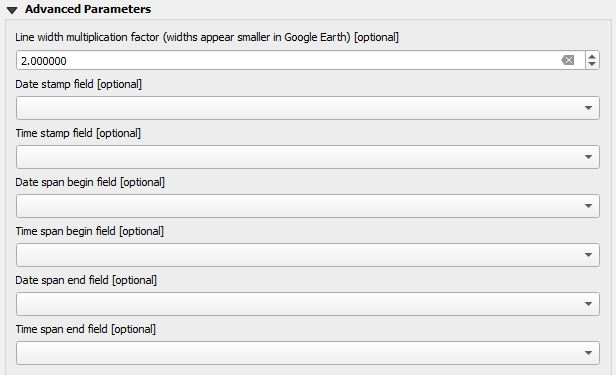
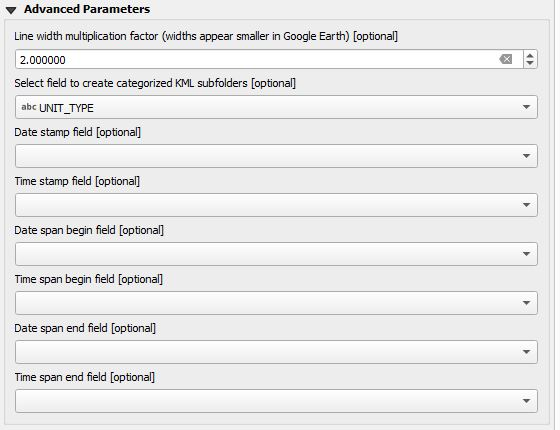
Attribute to KML subfolder creation

Changed region(s): [[0.0, 0.0, 1.0, 1.0], [0.0, 0.9093, 0.0304, 0.968], [0.0, 0.792, 0.0304, 0.8213]]

diff --git a/exportKmz.py b/exportKmz.py
@@ -5,7 +5,8 @@ from qgis.PyQt.QtGui import QIcon
 
 from qgis.core import (
     QgsCoordinateTransform, QgsCoordinateReferenceSystem, QgsCompoundCurve,
-    QgsProject, QgsRenderContext, QgsWkbTypes, Qgis, QgsExpression, QgsExpressionContext, QgsExpressionContextUtils)
+    QgsProject, QgsRenderContext, QgsWkbTypes, Qgis, QgsExpression, QgsFeatureRequest,
+    QgsExpressionContext, QgsExpressionContextUtils)
 
 from qgis.core import (
     QgsProcessing,
@@ -59,6 +60,7 @@ class ExportKmzAlgorithm(QgsProcessingAlgorithm):
     PrmExportStyle = 'ExportStyle'
     PrmUseGoogleIcon = 'UseGoogleIcon'
     PrmLineWidthFactor = 'LineWidthFactor'
+    PrmSubFolderField = 'SubFolderField'
     PrmAltitudeInterpretation = 'AltitudeInterpretation'
     PrmAltitudeMode = 'AltitudeMode'
     PrmAltitudeModeField = 'AltitudeModeField'
@@ -257,6 +259,15 @@ class ExportKmzAlgorithm(QgsProcessingAlgorithm):
         param.setFlags(param.flags() | QgsProcessingParameterDefinition.FlagAdvanced)
         self.addParameter(param)
         param = QgsProcessingParameterField(
+            self.PrmSubFolderField,
+            'Field to create categorized KML subfolders',
+            parentLayerParameterName=self.PrmInputLayer,
+            type=QgsProcessingParameterField.Any,
+            optional=True
+        )
+        param.setFlags(param.flags() | QgsProcessingParameterDefinition.FlagAdvanced)
+        self.addParameter(param)
+        param = QgsProcessingParameterField(
             self.PrmDateStampField,
             'Date stamp field',
             parentLayerParameterName=self.PrmInputLayer,
@@ -345,6 +356,10 @@ class ExportKmzAlgorithm(QgsProcessingAlgorithm):
             default_alt_mode = None
         else:
             default_alt_mode = ALTITUDE_MODES[self.parameterAsEnum(parameters, self.PrmAltitudeMode, context)]
+        if self.PrmSubFolderField not in parameters or parameters[self.PrmSubFolderField] is None:
+            group_by_subfolders = None
+        else:
+            group_by_subfolders = self.parameterAsString(parameters, self.PrmSubFolderField, context)
         alt_mode_field = self.parameterAsString(parameters, self.PrmAltitudeModeField, context)
         altitude_field = self.parameterAsString(parameters, self.PrmAltitudeField, context)
         altitude_addend = self.parameterAsDouble(parameters, self.PrmAltitudeAddend, context)
@@ -410,17 +425,28 @@ class ExportKmzAlgorithm(QgsProcessingAlgorithm):
             if export_style:
                 self.initStyles(export_style, google_icon, name_field, poly_hidden_point_label, geomtype, kml)
         
-        folder = kml.newfolder(name=layer.sourceName())
+        basefolder = folder = kml.newfolder(name=layer.sourceName())
         altitude = 0
+
+        if group_by_subfolders:
+            request = QgsFeatureRequest()
+            request.addOrderBy('"{}"'.format(group_by_subfolders))
+
         if selected_features_only:
-            iterator = layer.getSelectedFeatures()
+            if group_by_subfolders:
+                iterator = layer.getSelectedFeatures(request)
+            else:
+                iterator = layer.getSelectedFeatures()
             featureCount = layer.selectedFeatureCount()
         else:
             featureCount = layer.featureCount()
-            iterator = layer.getFeatures()
+            if group_by_subfolders:
+                iterator = layer.getFeatures(request)
+            else:
+                iterator = layer.getFeatures()
         total = 100.0 / featureCount if featureCount else 0
         num_features = 0
-        
+        last_category = None
         for cnt, feature in enumerate(iterator):
             if feedback.isCanceled():
                 break
@@ -438,7 +464,13 @@ class ExportKmzAlgorithm(QgsProcessingAlgorithm):
                     altitude = float(feature[altitude_field])
                 except Exception:
                     altitude = 0
-
+            if group_by_subfolders:
+                current_category = '{}'.format(feature[group_by_subfolders])
+                if current_category == '':
+                    current_category = 'Uncategorized'
+                if current_category != last_category:
+                    last_category = current_category
+                    folder = basefolder.newfolder(name=current_category)
             if geom.isMultipart() or (name_field and geomtype == QgsWkbTypes.PolygonGeometry and poly_hidden_point_label):
                 kmlgeom = folder.newmultigeometry()
                 kml_item = kmlgeom
